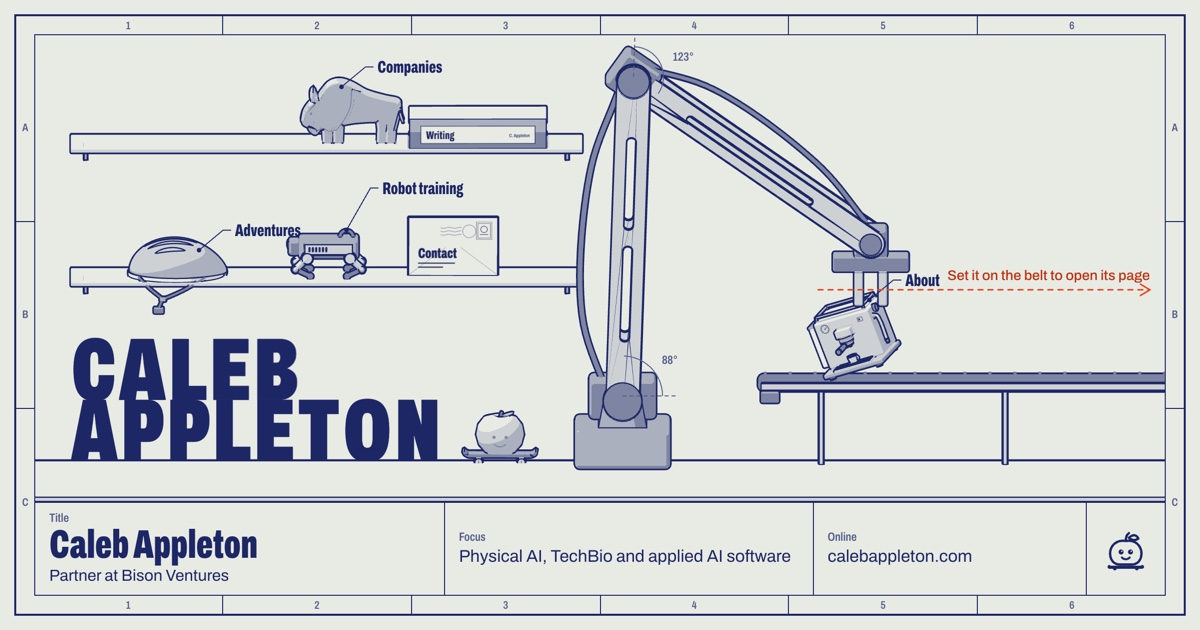
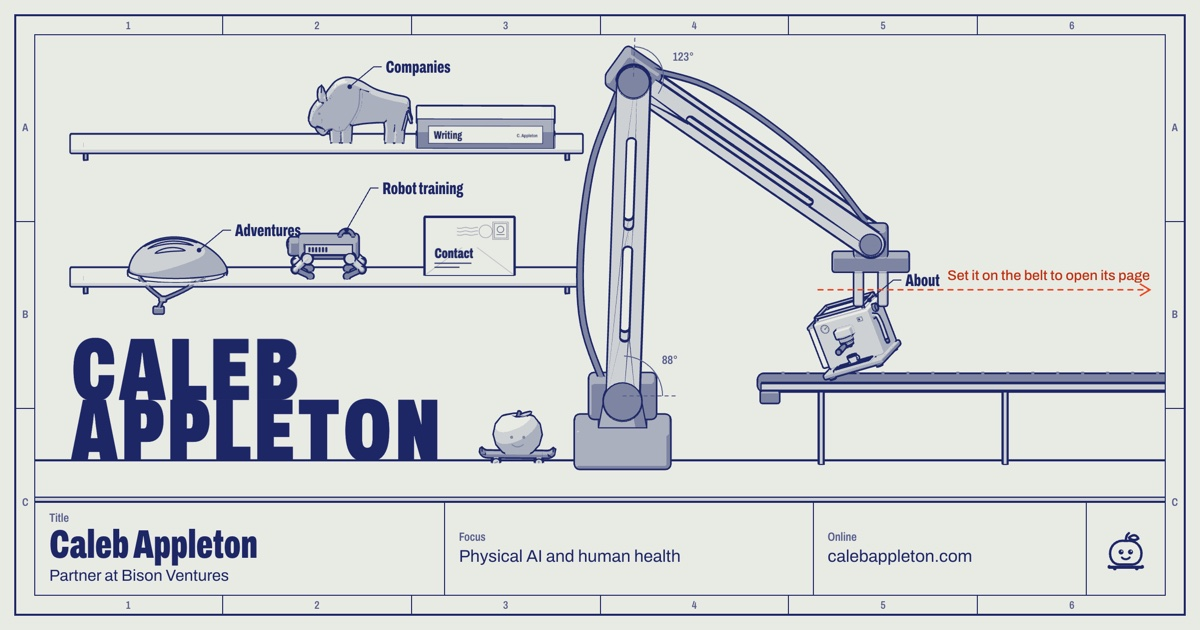
Align site copy with bison.vc
Focus is now physical AI and human health everywhere, replacing TechBio
and applied AI software, and stage reads pre-seed to Series B with $1M
to $15M checks. Company one-liners follow Bison's wording, the parts
list adds the TuneIn SVP title and the Georgia Tech advisory board, and
Robot training names the evolutionary algorithm. The share image shows
the new focus and moves to og.jpg?v=4.

diff --git a/companies/index.html b/companies/index.html
@@ -15,7 +15,7 @@
 <meta property="og:description" content="Companies Caleb Appleton works with at Bison Ventures, including Eka Robotics, Cobot, Vivodyne, Cosmon and Grid Aero, plus his earlier investments at Innovation Endeavors." />
 <meta property="og:url" content="https://calebappleton.com/companies/" />
 <meta property="og:site_name" content="Caleb Appleton" />
-<meta property="og:image" content="https://calebappleton.com/og.jpg?v=3" />
+<meta property="og:image" content="https://calebappleton.com/og.jpg?v=4" />
 <meta property="og:image:width" content="1200" />
 <meta property="og:image:height" content="630" />
 <meta property="og:image:alt" content="Caleb Appleton&#39;s site drawn as an engineering sheet, with a robot arm carrying an espresso machine to a conveyor" />
@@ -23,7 +23,7 @@
 <meta name="twitter:card" content="summary_large_image" />
 <meta name="twitter:title" content="Portfolio companies | Caleb Appleton" />
 <meta name="twitter:description" content="Companies Caleb Appleton works with at Bison Ventures, including Eka Robotics, Cobot, Vivodyne, Cosmon and Grid Aero, plus his earlier investments at Innovation Endeavors." />
-<meta name="twitter:image" content="https://calebappleton.com/og.jpg?v=3" />
+<meta name="twitter:image" content="https://calebappleton.com/og.jpg?v=4" />
 <meta name="twitter:image:alt" content="Caleb Appleton&#39;s site drawn as an engineering sheet, with a robot arm carrying an espresso machine to a conveyor" />
 <meta name="twitter:creator" content="@appleton_caleb" />
 <meta name="twitter:site" content="@appleton_caleb" />
@@ -91,7 +91,7 @@
             "item": {
               "@type": "Organization",
               "name": "Cosmon",
-              "description": "The AI toolchain for physical world engineering.",
+              "description": "An engineering agent for CAD, simulation and PLM work.",
               "url": "https://cosmon.com/"
             }
           },
@@ -101,7 +101,7 @@
             "item": {
               "@type": "Organization",
               "name": "Grid Aero",
-              "description": "Autonomous air logistics platform.",
+              "description": "Autonomous long-range aircraft.",
               "url": "https://grid.aero/"
             }
           },
@@ -111,7 +111,7 @@
             "item": {
               "@type": "Organization",
               "name": "Inner Logic",
-              "description": "Physical AI for healthcare.",
+              "description": "Physical AI for the operating room.",
               "url": "https://innerlogic.io/"
             }
           },
@@ -131,7 +131,7 @@
             "item": {
               "@type": "Organization",
               "name": "Passkey",
-              "description": "Tackling complex diseases using computational genetics.",
+              "description": "Computational genetics to design multifunctional drugs.",
               "url": "https://www.passkeytx.com/"
             }
           }
@@ -207,11 +207,11 @@
           <tr><td class="co"><a href="https://www.co.bot/" target="_blank" rel="noopener">Cobot</a></td><td>General purpose robotics and physical AI.</td><td class="area">Robotics and manufacturing</td><td class="stage">Series B</td></tr>
           <tr><td class="co"><a href="https://vivodyne.com/" target="_blank" rel="noopener">Vivodyne</a></td><td>Human tissue data at scale, pre-clinically. RL for biology.</td><td class="area">Human tissue models</td><td class="stage">Series A</td></tr>
           <tr><td class="co">Stealth TechBio</td><td>Next-generation radiopharmaceutical platform.</td><td class="area">Radiopharmaceuticals</td><td class="stage">Seed</td></tr>
-          <tr><td class="co"><a href="https://cosmon.com/" target="_blank" rel="noopener">Cosmon</a></td><td>The AI toolchain for physical world engineering.</td><td class="area">Mechanical engineering copilot</td><td class="stage">Seed</td></tr>
-          <tr><td class="co"><a href="https://grid.aero/" target="_blank" rel="noopener">Grid Aero</a></td><td>Autonomous air logistics platform.</td><td class="area">Air logistics</td><td class="stage">Series A</td></tr>
-          <tr><td class="co"><a href="https://innerlogic.io/" target="_blank" rel="noopener">Inner Logic</a></td><td>Physical AI for healthcare.</td><td class="area">Surgical autonomy</td><td class="stage">Seed</td></tr>
+          <tr><td class="co"><a href="https://cosmon.com/" target="_blank" rel="noopener">Cosmon</a></td><td>An engineering agent for CAD, simulation and PLM work.</td><td class="area">Engineering agents</td><td class="stage">Seed</td></tr>
+          <tr><td class="co"><a href="https://grid.aero/" target="_blank" rel="noopener">Grid Aero</a></td><td>Autonomous long-range aircraft.</td><td class="area">Air logistics</td><td class="stage">Series A</td></tr>
+          <tr><td class="co"><a href="https://innerlogic.io/" target="_blank" rel="noopener">Inner Logic</a></td><td>Physical AI for the operating room.</td><td class="area">Surgical autonomy</td><td class="stage">Seed</td></tr>
           <tr><td class="co"><a href="https://sleuthinsights.com/" target="_blank" rel="noopener">Sleuth</a></td><td>Answering complex, strategic biopharma questions using AI.</td><td class="area">Biopharma intelligence</td><td class="stage">Seed</td></tr>
-          <tr><td class="co"><a href="https://www.passkeytx.com/" target="_blank" rel="noopener">Passkey</a></td><td>Tackling complex diseases using computational genetics.</td><td class="area">Computational genetics</td><td class="stage">Seed</td></tr>
+          <tr><td class="co"><a href="https://www.passkeytx.com/" target="_blank" rel="noopener">Passkey</a></td><td>Computational genetics to design multifunctional drugs.</td><td class="area">Computational genetics</td><td class="stage">Seed</td></tr>
         </tbody>
       </table>
 

diff --git a/about/index.html b/about/index.html
@@ -15,7 +15,7 @@
 <meta property="og:description" content="Caleb Appleton grew up in Texas, studied Biomedical Engineering at Georgia Tech, and worked at Bain, Innovation Endeavors and TuneIn before joining Bison Ventures as a Partner." />
 <meta property="og:url" content="https://calebappleton.com/about/" />
 <meta property="og:site_name" content="Caleb Appleton" />
-<meta property="og:image" content="https://calebappleton.com/og.jpg?v=3" />
+<meta property="og:image" content="https://calebappleton.com/og.jpg?v=4" />
 <meta property="og:image:width" content="1200" />
 <meta property="og:image:height" content="630" />
 <meta property="og:image:alt" content="Caleb Appleton&#39;s site drawn as an engineering sheet, with a robot arm carrying an espresso machine to a conveyor" />
@@ -23,7 +23,7 @@
 <meta name="twitter:card" content="summary_large_image" />
 <meta name="twitter:title" content="About Caleb Appleton" />
 <meta name="twitter:description" content="Caleb Appleton grew up in Texas, studied Biomedical Engineering at Georgia Tech, and worked at Bain, Innovation Endeavors and TuneIn before joining Bison Ventures as a Partner." />
-<meta name="twitter:image" content="https://calebappleton.com/og.jpg?v=3" />
+<meta name="twitter:image" content="https://calebappleton.com/og.jpg?v=4" />
 <meta name="twitter:image:alt" content="Caleb Appleton&#39;s site drawn as an engineering sheet, with a robot arm carrying an espresso machine to a conveyor" />
 <meta name="twitter:creator" content="@appleton_caleb" />
 <meta name="twitter:site" content="@appleton_caleb" />
@@ -148,7 +148,7 @@
         </figure>
 
         <div class="about-text">
-          <p>I spend my days at Bison Ventures, working with founders building at the intersection of AI and the physical world: robotics, industrial systems, TechBio, and the compute infrastructure underneath it all.</p>
+          <p>I spend my days at Bison Ventures, working with founders who are bringing AI into the physical world. I focus on physical AI and human health, from robots and engineering tools to new ways of making medicines.</p>
           <p>Before Bison: I grew up in the Texas heat, then studied Biomedical Engineering at Georgia Tech, where I worked in one of the first CRISPR labs. A PhD wasn't for me, so I started my career at Bain &amp; Company, then Innovation Endeavors during its spin-out from Eric Schmidt's family office. A brief pandemic excursion in entrepreneurship followed, then a much less brief turnaround at TuneIn, where I led the global subscription business.</p>
           <p>Outside of work, you'll usually find me at the <a href="https://archive.org/details/Fort_Winfield_Scott_Organic_Community_Garden_2023" target="_blank" rel="noopener">Fort Winfield Scott Community Garden</a>, on a trail somewhere in West Marin on foot or two wheels, or cooking an elaborate meal with my wife, Emily.</p>
 
@@ -158,12 +158,12 @@
             <tbody>
               <tr class="group"><th scope="colgroup" colspan="3"><span class="group-k">Assembly</span>My life to date</th></tr>
               <tr data-item="1"><td><span class="balloon">1</span></td><td>College Station<span class="part-name">Base</span></td><td>I grew up here in the Texas heat.</td></tr>
-              <tr data-item="2"><td><span class="balloon">2</span></td><td>Georgia Tech<span class="part-name">Frame</span></td><td>Studied Biomedical Engineering and worked in one of the first CRISPR labs.</td></tr>
+              <tr data-item="2"><td><span class="balloon">2</span></td><td>Georgia Tech<span class="part-name">Frame</span></td><td>Studied Biomedical Engineering and worked in one of the first CRISPR labs. I now sit on the department's External Advisory Board.</td></tr>
               <tr data-item="3"><td><span class="balloon">3</span></td><td>Bain &amp; Company<span class="part-name">Pump</span></td><td>Where my career started.</td></tr>
               <tr data-item="4"><td><span class="balloon">4</span></td><td>Innovation Endeavors<span class="part-name">Boiler</span></td><td>Joined during the spin-out from Eric Schmidt's family office.</td></tr>
               <tr data-item="5"><td><span class="balloon">5</span></td><td>A startup<span class="part-name">Steam wand</span></td><td>A brief pandemic excursion in entrepreneurship.</td></tr>
-              <tr data-item="6"><td><span class="balloon">6</span></td><td>TuneIn<span class="part-name">Housing</span></td><td>Led the global subscription business through a turnaround.</td></tr>
-              <tr data-item="7"><td><span class="balloon">7</span></td><td>Bison Ventures<span class="part-name">Cup tray</span></td><td>Partner investing in physical AI, TechBio, and applied AI software.</td></tr>
+              <tr data-item="6"><td><span class="balloon">6</span></td><td>TuneIn<span class="part-name">Housing</span></td><td>As SVP, led the global subscription business through a turnaround.</td></tr>
+              <tr data-item="7"><td><span class="balloon">7</span></td><td>Bison Ventures<span class="part-name">Cup tray</span></td><td>Partner investing in physical AI and human health.</td></tr>
               <tr class="group"><th scope="colgroup" colspan="3"><span class="group-k">Accessories</span>Where you might find me</th></tr>
               <tr data-item="8"><td><span class="balloon">8</span></td><td>Cortado<span class="part-name">Cup</span></td><td>Usually on the second one by noon.</td></tr>
               <tr data-item="9"><td><span class="balloon">9</span></td><td>Garden plot<span class="part-name">Water tank</span></td><td>Plot 34 at the Fort Winfield Scott garden.</td></tr>

diff --git a/index.html b/index.html
@@ -13,19 +13,19 @@
 
 <!-- ========== SEO ========== -->
 <title>Caleb Appleton — Partner at Bison Ventures</title>
-<meta name="description" content="Caleb Appleton is a Partner at Bison Ventures investing in Physical AI, TechBio, and applied AI software. Based in San Francisco. Portfolio, writing, and a robot arm you can drive." />
+<meta name="description" content="Caleb Appleton is a Partner at Bison Ventures investing in physical AI and human health, from pre-seed to Series B. Based in San Francisco. Portfolio, writing, and a robot arm you can drive." />
 <meta name="author" content="Caleb Appleton" />
-<meta name="keywords" content="Caleb Appleton, Bison Ventures, venture capital, physical AI, robotics investor, techbio, applied AI, San Francisco VC, deep tech, seed investor" />
+<meta name="keywords" content="Caleb Appleton, Bison Ventures, venture capital, physical AI, human health, robotics investor, techbio, San Francisco VC, deep tech, early-stage investor" />
 <meta name="robots" content="index, follow, max-image-preview:large, max-snippet:-1, max-video-preview:-1" />
 <link rel="canonical" href="https://calebappleton.com/" />
 
 <!-- Open Graph -->
 <meta property="og:type" content="profile" />
 <meta property="og:title" content="Caleb Appleton — Partner at Bison Ventures" />
-<meta property="og:description" content="Partner at Bison Ventures investing in Physical AI, TechBio, and applied AI software. Portfolio, writing, and a robot arm you can drive." />
+<meta property="og:description" content="Partner at Bison Ventures investing in physical AI and human health. Portfolio, writing, and a robot arm you can drive." />
 <meta property="og:url" content="https://calebappleton.com/" />
 <meta property="og:site_name" content="Caleb Appleton" />
-<meta property="og:image" content="https://calebappleton.com/og.jpg?v=3" />
+<meta property="og:image" content="https://calebappleton.com/og.jpg?v=4" />
 <meta property="og:image:width" content="1200" />
 <meta property="og:image:height" content="630" />
 <meta property="og:image:alt" content="Caleb Appleton&#39;s site drawn as an engineering sheet, with a robot arm carrying an espresso machine to a conveyor" />
@@ -36,8 +36,8 @@
 <!-- Twitter / X -->
 <meta name="twitter:card" content="summary_large_image" />
 <meta name="twitter:title" content="Caleb Appleton — Partner at Bison Ventures" />
-<meta name="twitter:description" content="Partner at Bison Ventures investing in Physical AI, TechBio, and applied AI software." />
-<meta name="twitter:image" content="https://calebappleton.com/og.jpg?v=3" />
+<meta name="twitter:description" content="Partner at Bison Ventures investing in physical AI and human health." />
+<meta name="twitter:image" content="https://calebappleton.com/og.jpg?v=4" />
 <meta name="twitter:image:alt" content="Caleb Appleton&#39;s site drawn as an engineering sheet, with a robot arm carrying an espresso machine to a conveyor" />
 <meta name="twitter:creator" content="@appleton_caleb" />
 <meta name="twitter:site" content="@appleton_caleb" />
@@ -62,7 +62,7 @@
     "@type": "CollegeOrUniversity",
     "name": "Georgia Institute of Technology"
   },
-  "description": "Partner at Bison Ventures investing in Physical AI, TechBio, and applied AI software. Based in San Francisco.",
+  "description": "Partner at Bison Ventures investing in physical AI and human health, from pre-seed to Series B. Based in San Francisco.",
   "worksFor": {
     "@type": "Organization",
     "name": "Bison Ventures",
@@ -85,9 +85,9 @@
     "Robotics",
     "TechBio",
     "Computational Genetics",
-    "Applied AI software",
+    "Human Health",
     "Deep Tech",
-    "Seed-stage investing"
+    "Early-stage investing"
   ]
 }
 </script>
@@ -222,7 +222,7 @@
         <div class="notes">
           <h2 class="notes-title">Notes</h2>
           <ol>
-            <li>I'm a Partner at Bison Ventures. I back founders building at the intersection of AI and the physical world, including robotics, industrial systems, TechBio, and the compute infrastructure underneath it all.</li>
+            <li>I'm a Partner at Bison Ventures, where I back founders bringing AI into the physical world. My focus is physical AI and human health.</li>
             <li>Cold emails are welcome.</li>
           </ol>
           <p class="stage-hint">Every object on the shelves opens a page. Pick one up and set it on the conveyor, or use the list below.</p>

diff --git a/contact/index.html b/contact/index.html
@@ -5,25 +5,25 @@
 <meta name="viewport" content="width=device-width, initial-scale=1" />
 
 <title>Contact Caleb Appleton</title>
-<meta name="description" content="How to reach Caleb Appleton, Partner at Bison Ventures. Cold emails are welcome, especially from founders in physical AI, robotics, applied AI software and TechBio." />
+<meta name="description" content="How to reach Caleb Appleton, Partner at Bison Ventures. Cold emails are welcome, especially from founders in physical AI, robotics and human health." />
 <meta name="author" content="Caleb Appleton" />
 <meta name="robots" content="index, follow, max-image-preview:large, max-snippet:-1, max-video-preview:-1" />
 <link rel="canonical" href="https://calebappleton.com/contact/" />
 
 <meta property="og:type" content="website" />
 <meta property="og:title" content="Contact Caleb Appleton" />
-<meta property="og:description" content="How to reach Caleb Appleton, Partner at Bison Ventures. Cold emails are welcome, especially from founders in physical AI, robotics, applied AI software and TechBio." />
+<meta property="og:description" content="How to reach Caleb Appleton, Partner at Bison Ventures. Cold emails are welcome, especially from founders in physical AI, robotics and human health." />
 <meta property="og:url" content="https://calebappleton.com/contact/" />
 <meta property="og:site_name" content="Caleb Appleton" />
-<meta property="og:image" content="https://calebappleton.com/og.jpg?v=3" />
+<meta property="og:image" content="https://calebappleton.com/og.jpg?v=4" />
 <meta property="og:image:width" content="1200" />
 <meta property="og:image:height" content="630" />
 <meta property="og:image:alt" content="Caleb Appleton&#39;s site drawn as an engineering sheet, with a robot arm carrying an espresso machine to a conveyor" />
 <meta property="og:locale" content="en_US" />
 <meta name="twitter:card" content="summary_large_image" />
 <meta name="twitter:title" content="Contact Caleb Appleton" />
-<meta name="twitter:description" content="How to reach Caleb Appleton, Partner at Bison Ventures. Cold emails are welcome, especially from founders in physical AI, robotics, applied AI software and TechBio." />
-<meta name="twitter:image" content="https://calebappleton.com/og.jpg?v=3" />
+<meta name="twitter:description" content="How to reach Caleb Appleton, Partner at Bison Ventures. Cold emails are welcome, especially from founders in physical AI, robotics and human health." />
+<meta name="twitter:image" content="https://calebappleton.com/og.jpg?v=4" />
 <meta name="twitter:image:alt" content="Caleb Appleton&#39;s site drawn as an engineering sheet, with a robot arm carrying an espresso machine to a conveyor" />
 <meta name="twitter:creator" content="@appleton_caleb" />
 <meta name="twitter:site" content="@appleton_caleb" />
@@ -106,7 +106,7 @@
       <div class="contact">
         <div>
           <p class="contact-big">caleb at bison dot vc</p>
-          <p class="contact-note">Cold emails are very welcome. I especially like hearing from founders building in physical AI, robotics, applied AI software, and TechBio.</p>
+          <p class="contact-note">Cold emails are very welcome. I especially like hearing from founders building in physical AI, robotics and human health.</p>
         </div>
         <dl class="contact-block">
           <div><dt>Elsewhere</dt><dd><a href="https://www.linkedin.com/in/caleb-appleton-86563484/" target="_blank" rel="noopener">LinkedIn</a>, <a href="https://x.com/appleton_caleb" target="_blank" rel="noopener">X</a>, <a href="https://medium.com/bison-ventures" target="_blank" rel="noopener">Medium</a></dd></div>

diff --git a/robot-training/index.html b/robot-training/index.html
@@ -15,7 +15,7 @@
 <meta property="og:description" content="Teach a small four-legged robot to walk. While the page is open, your browser tries new gaits and keeps the ones that travel farthest." />
 <meta property="og:url" content="https://calebappleton.com/robot-training/" />
 <meta property="og:site_name" content="Caleb Appleton" />
-<meta property="og:image" content="https://calebappleton.com/og.jpg?v=3" />
+<meta property="og:image" content="https://calebappleton.com/og.jpg?v=4" />
 <meta property="og:image:width" content="1200" />
 <meta property="og:image:height" content="630" />
 <meta property="og:image:alt" content="Caleb Appleton&#39;s site drawn as an engineering sheet, with a robot arm carrying an espresso machine to a conveyor" />
@@ -23,7 +23,7 @@
 <meta name="twitter:card" content="summary_large_image" />
 <meta name="twitter:title" content="Teach a robot to walk | Caleb Appleton" />
 <meta name="twitter:description" content="Teach a small four-legged robot to walk. While the page is open, your browser tries new gaits and keeps the ones that travel farthest." />
-<meta name="twitter:image" content="https://calebappleton.com/og.jpg?v=3" />
+<meta name="twitter:image" content="https://calebappleton.com/og.jpg?v=4" />
 <meta name="twitter:image:alt" content="Caleb Appleton&#39;s site drawn as an engineering sheet, with a robot arm carrying an espresso machine to a conveyor" />
 <meta name="twitter:creator" content="@appleton_caleb" />
 <meta name="twitter:site" content="@appleton_caleb" />
@@ -102,7 +102,7 @@
           <canvas id="rig-canvas" role="img" aria-label="A four-legged walker replaying its best gait so far"></canvas>
         </div>
         <div class="rig-side">
-          <p>This small four-legged robot is learning to walk. While this page is open, your browser tries out variations of its gait. It keeps the ones that travel farthest in ten seconds and builds on them. Progress is saved in your browser, so it picks up where it left off next time.</p>
+          <p>This small four-legged robot is learning to walk. While this page is open, your browser trains it with an evolutionary algorithm. It tries variations of the gait, scores each one by how far it travels in ten seconds, and breeds the best. Progress is saved in your browser, so it picks up where it left off next time.</p>
           <dl class="rig-readout">
             <div><dt>Generation</dt><dd id="rig-gen">0</dd></div>
             <div><dt>Best distance</dt><dd id="rig-best">0.00 m</dd></div>

diff --git a/writing/index.html b/writing/index.html
@@ -15,7 +15,7 @@
 <meta property="og:description" content="Articles, blog posts, podcasts and press from Caleb Appleton on robotics, physical AI, TechBio and deep tech investing." />
 <meta property="og:url" content="https://calebappleton.com/writing/" />
 <meta property="og:site_name" content="Caleb Appleton" />
-<meta property="og:image" content="https://calebappleton.com/og.jpg?v=3" />
+<meta property="og:image" content="https://calebappleton.com/og.jpg?v=4" />
 <meta property="og:image:width" content="1200" />
 <meta property="og:image:height" content="630" />
 <meta property="og:image:alt" content="Caleb Appleton&#39;s site drawn as an engineering sheet, with a robot arm carrying an espresso machine to a conveyor" />
@@ -23,7 +23,7 @@
 <meta name="twitter:card" content="summary_large_image" />
 <meta name="twitter:title" content="Writing and press | Caleb Appleton" />
 <meta name="twitter:description" content="Articles, blog posts, podcasts and press from Caleb Appleton on robotics, physical AI, TechBio and deep tech investing." />
-<meta name="twitter:image" content="https://calebappleton.com/og.jpg?v=3" />
+<meta name="twitter:image" content="https://calebappleton.com/og.jpg?v=4" />
 <meta name="twitter:image:alt" content="Caleb Appleton&#39;s site drawn as an engineering sheet, with a robot arm carrying an espresso machine to a conveyor" />
 <meta name="twitter:creator" content="@appleton_caleb" />
 <meta name="twitter:site" content="@appleton_caleb" />

diff --git a/adventures/index.html b/adventures/index.html
@@ -15,7 +15,7 @@
 <meta property="og:description" content="Photos from Caleb Appleton&#39;s bikepacking, backcountry skiing and gravel rides, from Peru to Tahoe." />
 <meta property="og:url" content="https://calebappleton.com/adventures/" />
 <meta property="og:site_name" content="Caleb Appleton" />
-<meta property="og:image" content="https://calebappleton.com/og.jpg?v=3" />
+<meta property="og:image" content="https://calebappleton.com/og.jpg?v=4" />
 <meta property="og:image:width" content="1200" />
 <meta property="og:image:height" content="630" />
 <meta property="og:image:alt" content="Caleb Appleton&#39;s site drawn as an engineering sheet, with a robot arm carrying an espresso machine to a conveyor" />
@@ -23,7 +23,7 @@
 <meta name="twitter:card" content="summary_large_image" />
 <meta name="twitter:title" content="Adventures | Caleb Appleton" />
 <meta name="twitter:description" content="Photos from Caleb Appleton&#39;s bikepacking, backcountry skiing and gravel rides, from Peru to Tahoe." />
-<meta name="twitter:image" content="https://calebappleton.com/og.jpg?v=3" />
+<meta name="twitter:image" content="https://calebappleton.com/og.jpg?v=4" />
 <meta name="twitter:image:alt" content="Caleb Appleton&#39;s site drawn as an engineering sheet, with a robot arm carrying an espresso machine to a conveyor" />
 <meta name="twitter:creator" content="@appleton_caleb" />
 <meta name="twitter:site" content="@appleton_caleb" />
